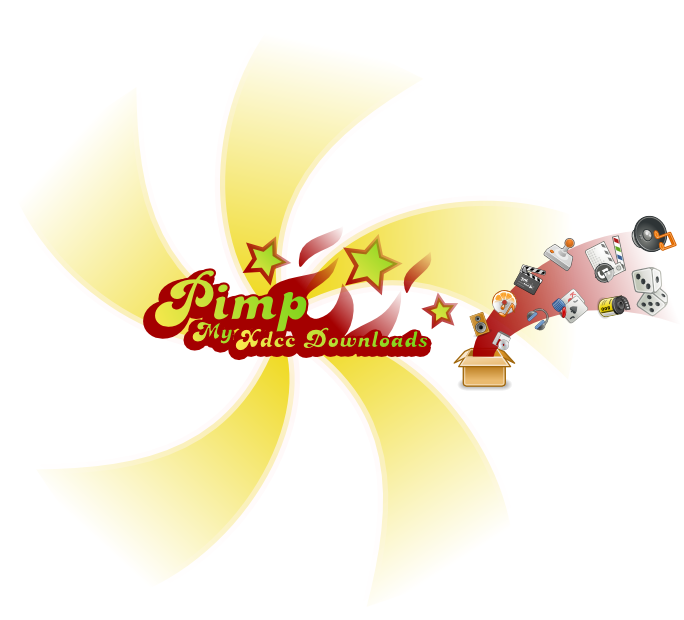
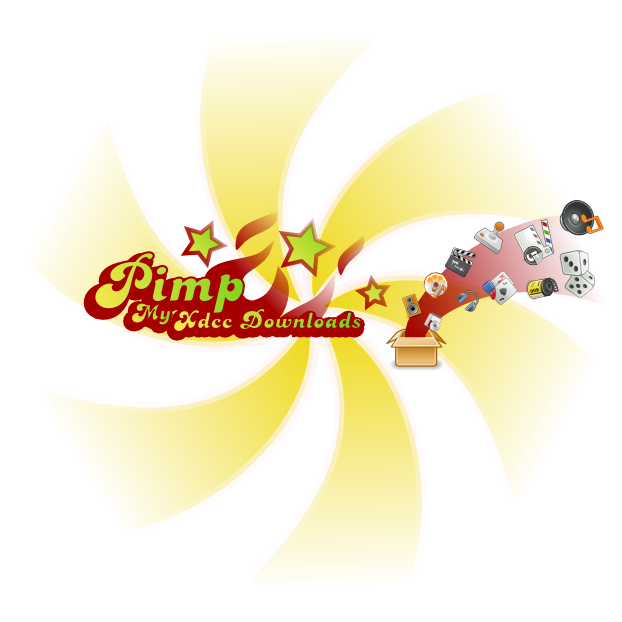
change xg image

diff --git a/www/css/style.css b/www/css/style.css
@@ -125,8 +125,8 @@ small
 #headerImage
 {
 	position: absolute;
-	left: 225px;
-	top: -258px;
+	left: 285px;
+	top: -240px;
 	z-index: -1;
 }
 
